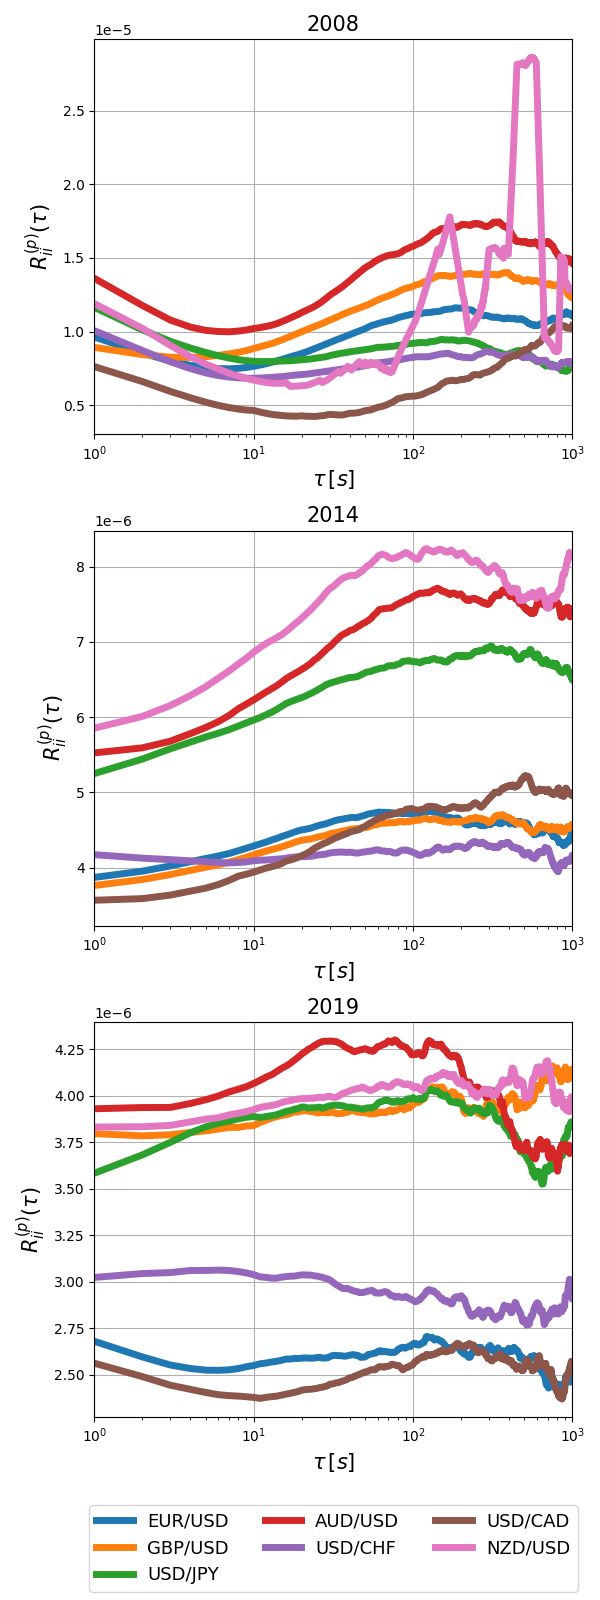
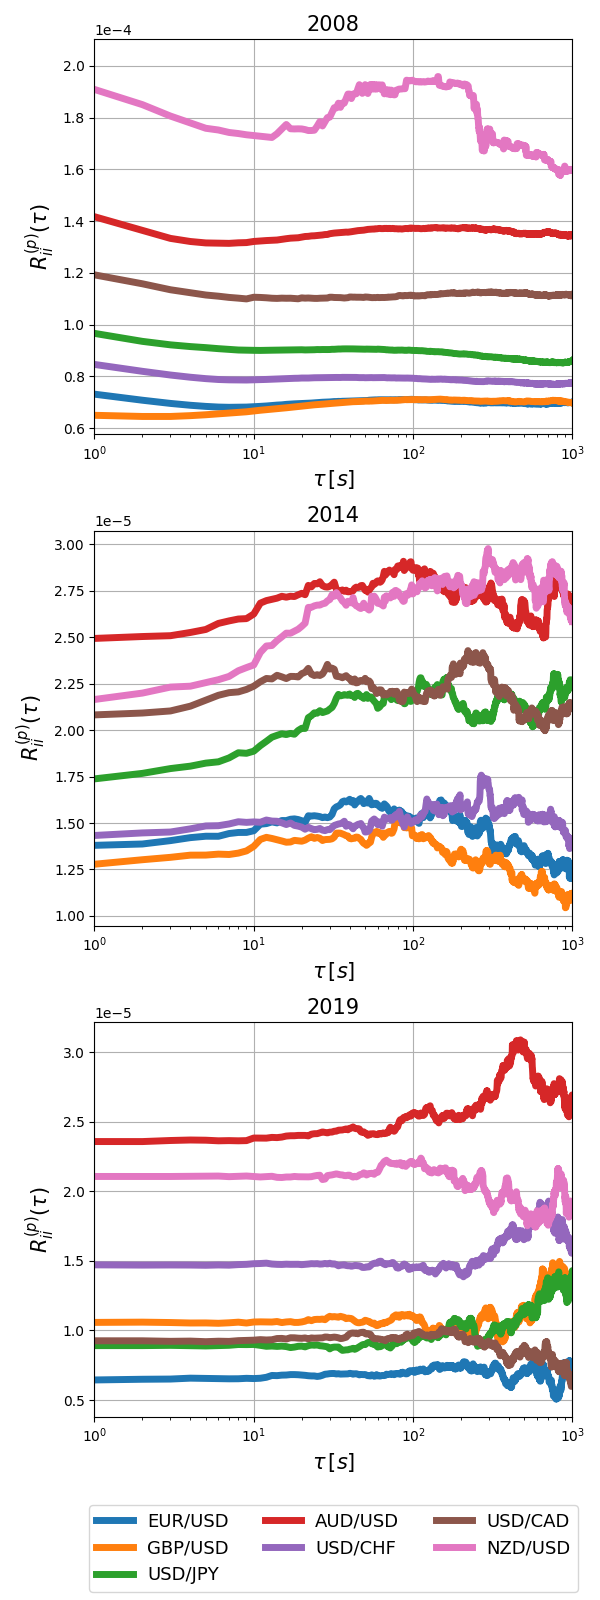
Fix bug in trade signs computation

diff --git a/project/hist_physical_basic_data/hist_algorithms/hist_data_analysis_physical_basic_data.py b/project/hist_physical_basic_data/hist_algorithms/hist_data_analysis_physical_basic_data.py
@@ -76,8 +76,12 @@ def hist_fx_physical_data(fx_pair: str, year: str, week: str) -> None:
         fx_data_p = pd.concat([fx_data_p, t_end_df])
 
         fx_data_p = fx_data_p.groupby(level=fx_data_p.index.names)
-        fx_data_p = fx_data_p.last()
-        fx_data_p = fx_data_p.asfreq(freq='S')
+        midpoint = fx_data_p['Midpoint'].last()
+        midpoint = midpoint.asfreq(freq='S')
+        signs = np.sign(fx_data_p['Signs'].sum())
+        signs = signs.asfreq(freq='S')
+        series = [midpoint, signs]
+        fx_data_p = pd.concat(series, axis=1)
         fx_data_p['Midpoint'] = fx_data_p['Midpoint'].fillna(method='ffill')
         fx_data_p['Midpoint'] = fx_data_p['Midpoint'].fillna(method='bfill')
         fx_data_p['Signs'] = fx_data_p['Signs'].fillna(value=0)
